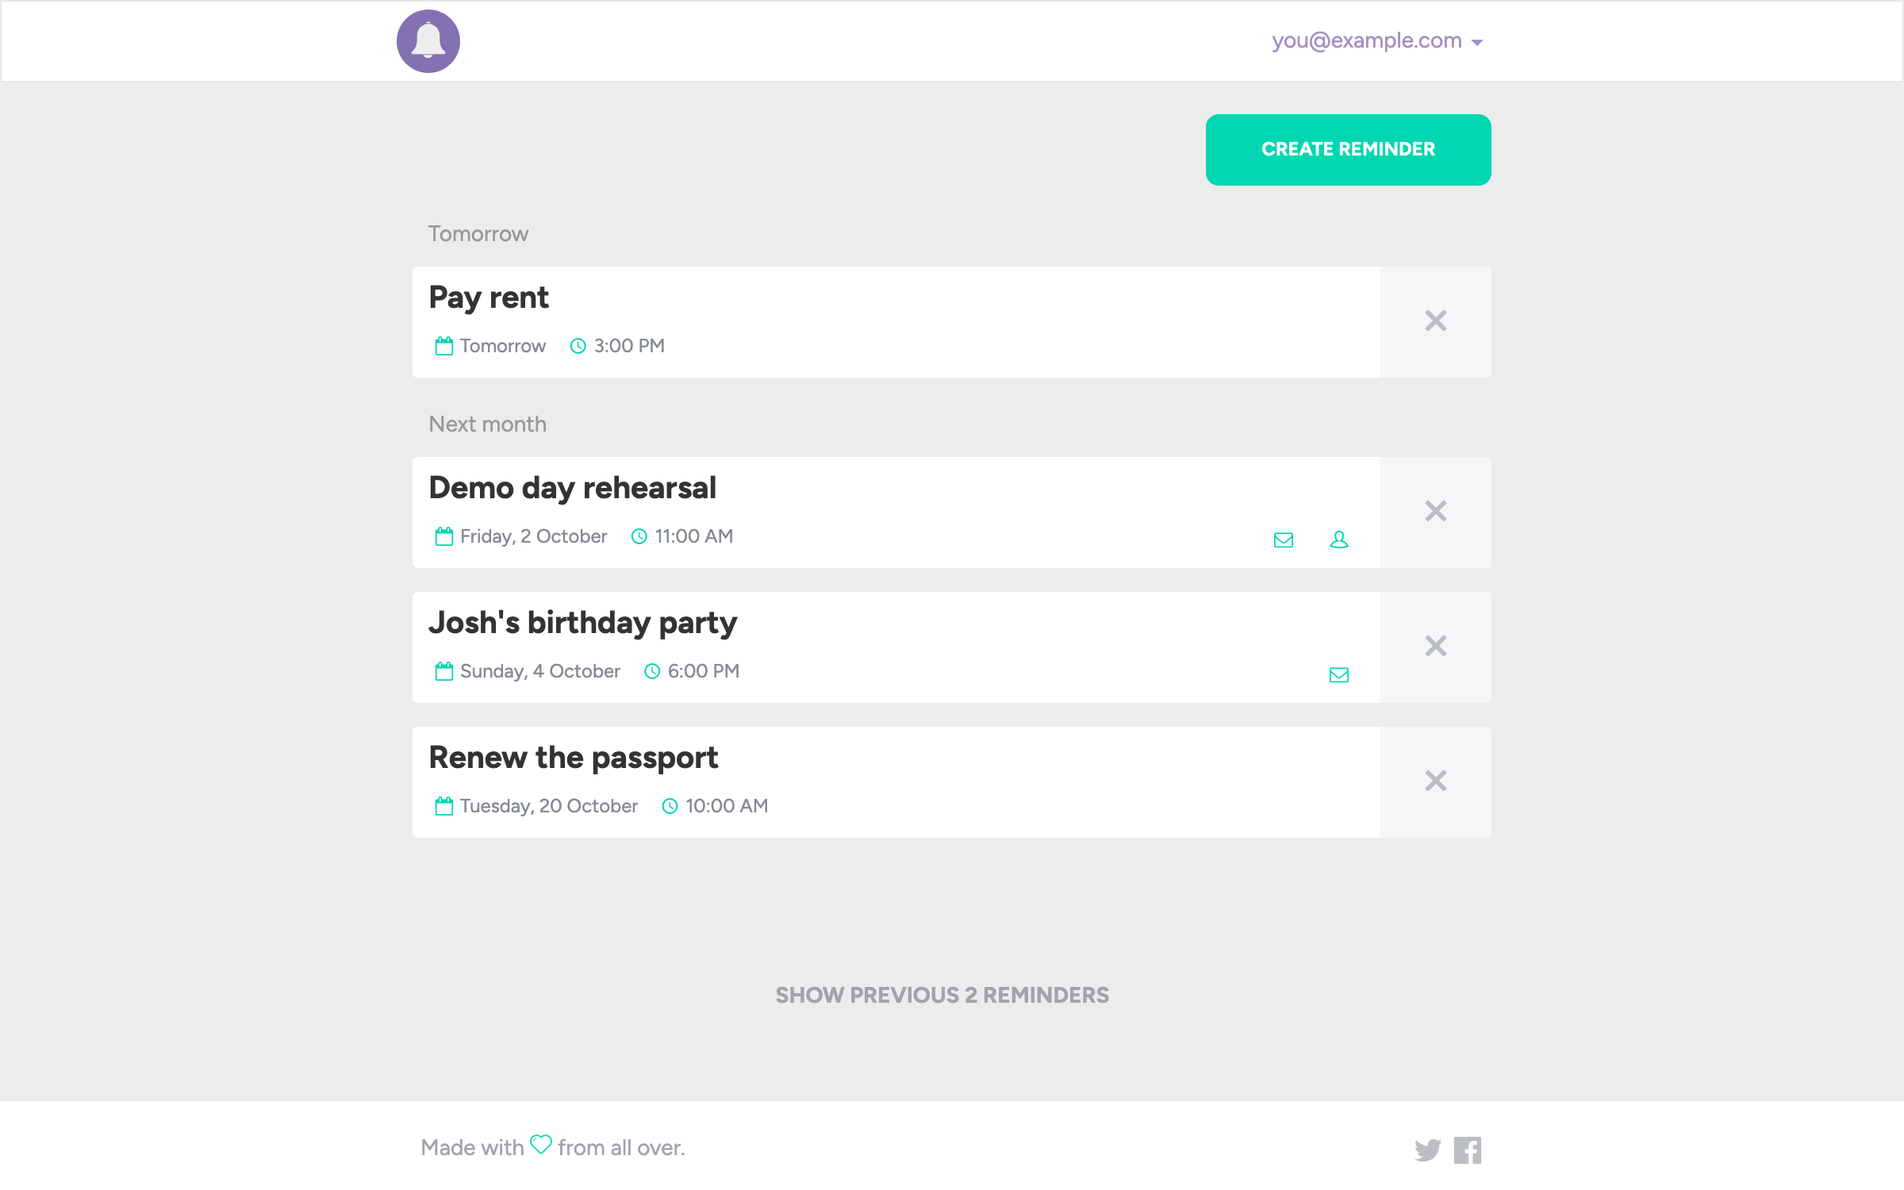
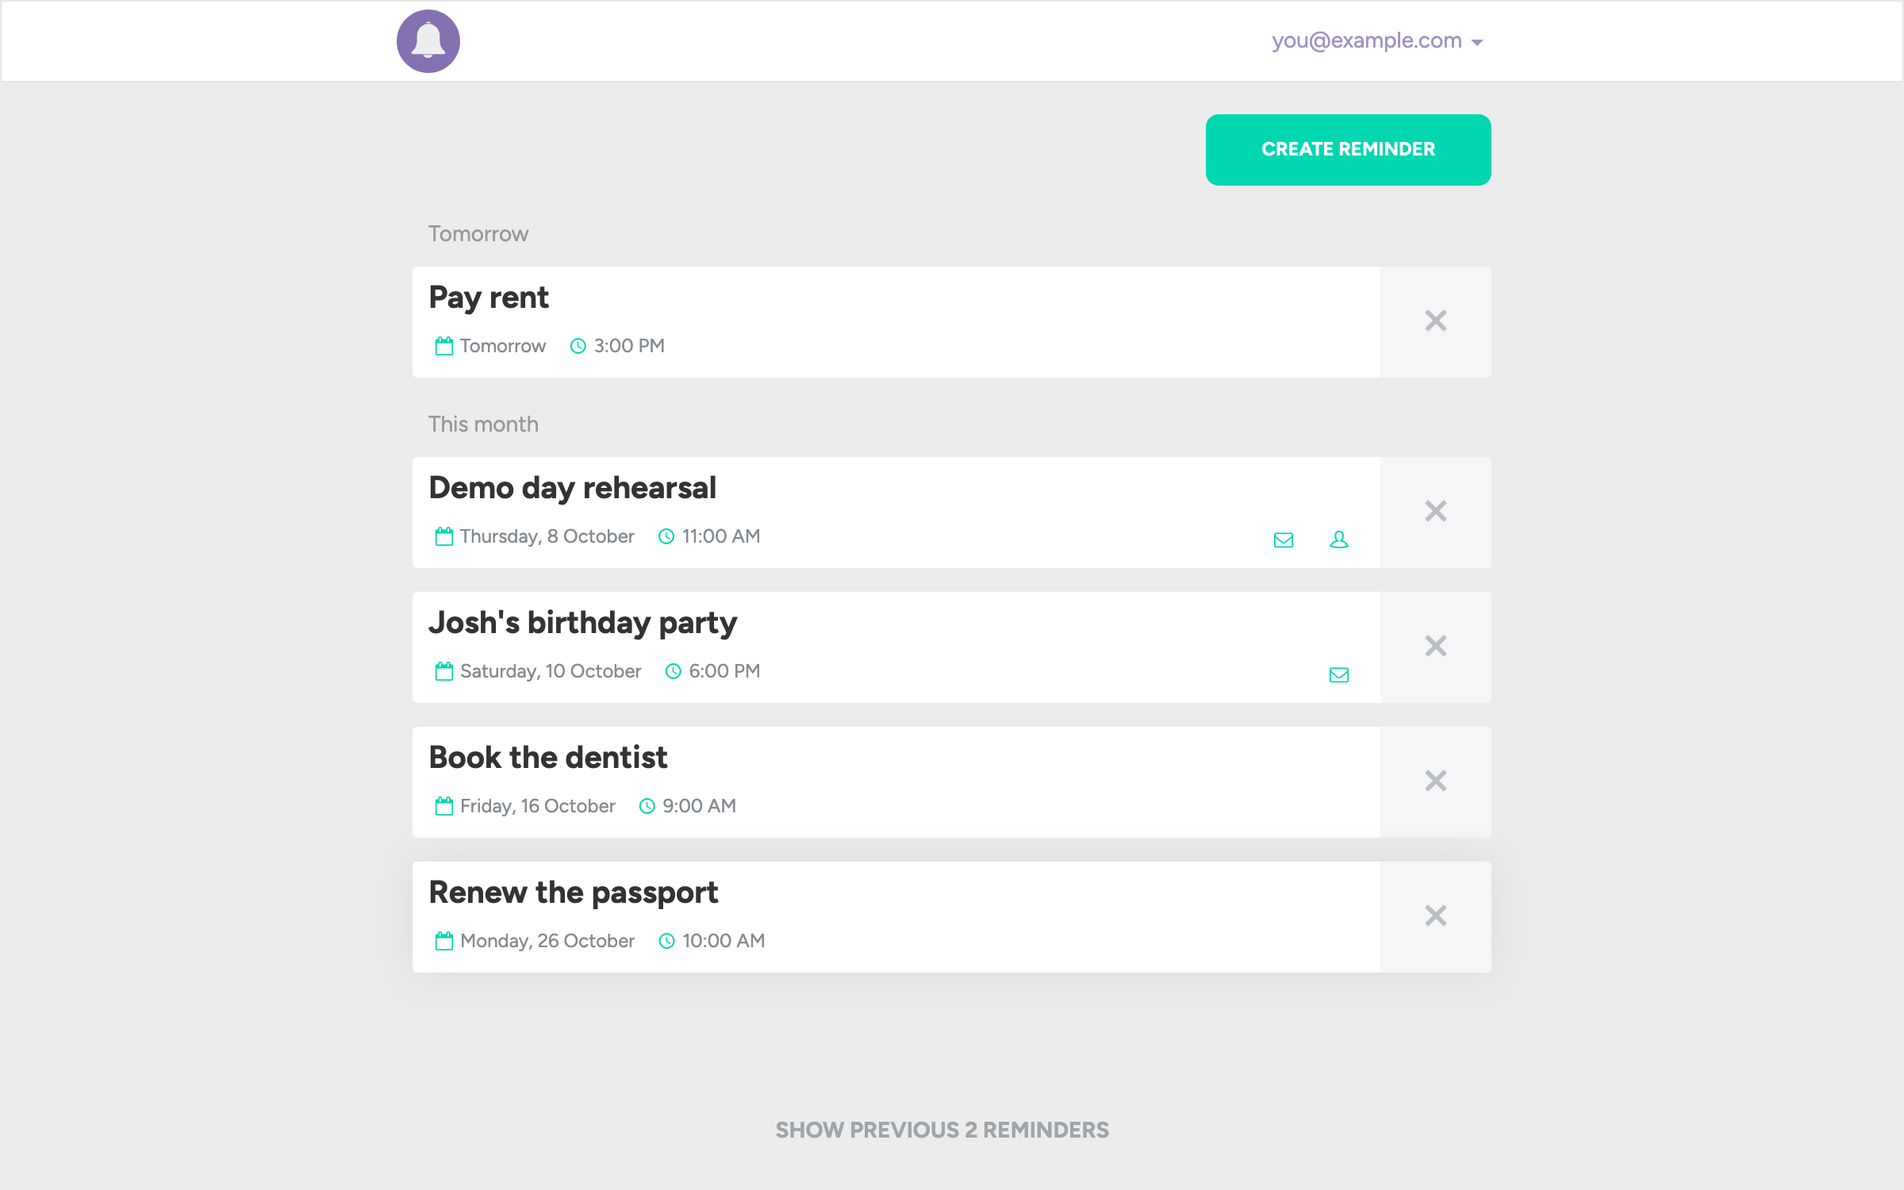
docs: lead with the provable 2014 launch and my part in Reme
Reframes the headline from "before typing to software was normal", which Google Calendar Quick Add and Fantastical disprove, to the verifiable Product Hunt feature on 27 February 2014, and adds a first-person "My part" section. Corrects the counts to 919 commits and 648 of mine, says the 2024 README edits exist, links the 2016 directive and the commit that imported it, and lists the new fixes. Images are regenerated from one fixed clock.

diff --git a/README.md b/README.md
@@ -4,15 +4,15 @@
 
 # Reme
 
-**Natural-language reminders, years before typing to software was normal.**
+**Email reminders you write as a sentence, since February 2014.**
 
-Type _"Pay rent @tomorrow at 3pm"_ and Reme e-mails you on time. There was no form to fill in: the sentence was the interface. A small team built it and ran it on reme.io from 2014. It was revived in 2026 so it runs again, entirely in your browser.
+Type _"Pay rent @tomorrow at 3pm"_ and Reme emails you on time. No date picker, no form: the sentence is the interface. I co-founded Reme, wrote 648 of the 919 commits of Reme 2.0 (2014–2016), and revived it on my own in 2026, so it runs again, entirely in your browser.
 
 [![CI](https://github.com/ioanlucut/reme/actions/workflows/ci.yml/badge.svg)](https://github.com/ioanlucut/reme/actions/workflows/ci.yml)
 [![Live demo](https://img.shields.io/badge/live%20demo-GitHub%20Pages-8471B1)](https://ioanlucut.github.io/reme/)
-![Natural-language input](https://img.shields.io/badge/natural--language%20input-since%202014-00d7b2)
+[![Product Hunt: #6 of the day, February 2014](https://img.shields.io/badge/Product%20Hunt-%236%20of%20the%20day%2C%20Feb%202014-da552f)](https://www.producthunt.com/products/reme-io)
 ![AngularJS 1.3](https://img.shields.io/badge/AngularJS-1.3-dd1b16)
-![Commits](https://img.shields.io/badge/commits%202014%E2%80%932016-921-555)
+![Commits](https://img.shields.io/badge/commits%202014%E2%80%932016-919-555)
 [![License: MIT](https://img.shields.io/badge/license-MIT-blue)](LICENSE)
 
 <a href="https://ioanlucut.github.io/reme/"><img src="docs/images/reme-demo.gif" alt="Reme demo: enter an email on the landing page, land in the reminders list, type 'Book the dentist @next friday at 9am', watch the date and time fill themselves in, and see the reminder appear in the list." width="100%"></a>
@@ -25,15 +25,15 @@ Type _"Pay rent @tomorrow at 3pm"_ and Reme e-mails you on time. There was no fo
 
 The whole product is one idea: **a reminder should take less time to write than to forget.**
 
-1. **You write the reminder the way you'd say it.** Everything before the `@` is what to remember, and everything after it is when. Since the 2026 revival the `@` is optional, so `Meeting tomorrow at 3pm` works too. The date and time pickers update as you type, and you can still adjust them by hand. [How it reads a sentence](#talking-to-software-in-2014) is below.
-2. **Reme e-mails you when it's due.** The reminder is scheduled in the timezone of the browser it was written in.
+1. **You write the reminder the way you'd say it.** Everything before the `@` is what to remember, and everything after it is when. Since the 2026 revival the `@` is optional, so `Meeting tomorrow at 3pm` works too. The date and time pickers update as you type, and you can still adjust them by hand. [How it reads a sentence](#a-sentence-as-the-interface) is below.
+2. **Reme emails you when it's due.** The reminder is scheduled in the timezone of the browser it was written in.
 3. **You can remind other people too.** Add more recipients and they get the email as well. They see the reminder in their own list and can unsubscribe from it.
 4. **Your reminders stay organised.** They're grouped as _Today_, _Tomorrow_, _This month_, _Next month_ and so on, with upcoming and past reminders kept apart.
 
 <table>
 <tr>
-<td width="50%"><img src="docs/images/create.png" alt="The reminder dialog: the text 'Josh's birthday party @next friday at 6pm' has set the date picker to a Friday and the time picker to 06:00 PM"></td>
-<td width="50%"><img src="docs/images/reminders.png" alt="The reminders list, grouped under Tomorrow and Next month, with recipient and shared-reminder icons"></td>
+<td width="50%"><img src="docs/images/create.png" alt="The reminder dialog: the text 'Book the dentist @next friday at 9am' has set the date picker to a Friday and the time picker to 09:00 AM"></td>
+<td width="50%"><img src="docs/images/reminders.png" alt="The reminders list with the new dentist reminder, grouped under Tomorrow and This month, with recipient and shared-reminder icons"></td>
 </tr>
 <tr>
 <td><sub>The date and time are parsed from the text as you type.</sub></td>
@@ -41,9 +41,15 @@ The whole product is one idea: **a reminder should take less time to write than 
 </tr>
 </table>
 
-## Talking to software, in 2014
+## My part
 
-Today we type a sentence into a chat box and expect software to understand it. In 2014, apps asked you to pick a date from a calendar and a time from a dropdown. Reme asked for a sentence instead. It was live on reme.io by March 2014, and [dotTech's review of 8 April 2014](https://dottech.org/155679/web-review-reme-io-app/) walked readers through the `@` syntax.
+- **I co-founded Reme and built the Reme 2.0 front end.** That's 648 of its 919 commits: the module architecture, JWT authentication, the reminders list and its grouping, the natural-language editor, and the build and deployment.
+- **Reme 2.0 went from first commit to live in nine weeks.** The first commit landed on 15 November 2014, there were 501 commits by the end of the year, and it went live on 17 January 2015.
+- **I revived it alone in 2026.** That meant a new build, a demo that needs no backend, fixes for bugs that had lain dormant for a decade, the first end-to-end tests, and CI.
+
+## A sentence as the interface
+
+In 2014, most web apps asked for a date from a calendar widget and a time from a dropdown. A few tools, such as Google Calendar's Quick Add, could already read a date from text. Reme built the whole product around that idea: one sentence, no form and, in its first version, no account. It was featured on [Product Hunt](https://www.producthunt.com/products/reme-io) on 27 February 2014, and [dotTech's review of 8 April 2014](https://dottech.org/155679/web-review-reme-io-app/) walked readers through the `@` syntax.
 
 Reme split the sentence into two parts. Everything before the `@` became the text of the reminder, and everything after it was parsed as a date. It updated the date and time pickers on every keystroke, entirely in the browser.
 
@@ -61,9 +67,7 @@ Here is what Reme reads from the examples its own reminder dialog suggested. The
 
 The `@` split is what lets _"next month"_ stay part of the wedding's text rather than change its date.
 
-In 2026 the `@` became optional. Without one, Reme takes the longest run of words at the end of the sentence that reads as a date from today onwards. `Meeting tomorrow at 3pm` gets tomorrow at 15:00, and `Call the bank in 2 hours` gets a time two hours from now. `Read chapter 5` stays a plain reminder, because a bare number isn't taken as a date.
-
-It was a grammar, not a language model. [Sugar](https://sugarjs.com/) recognised a fixed set of date expressions in a few milliseconds, with no server round trip. Anything outside that set, such as `@next monday at noon`, simply wasn't understood, and the pickers stayed as they were. The whole feature is one small directive, [`nlpDateDirective.js`](src/app/common/directives/nlpDateDirective.js):
+It was a grammar, not a language model. [Sugar](https://sugarjs.com/) recognised a fixed set of date expressions in a few milliseconds, with no server round trip. It had no word for `noon`, for example: typing `@next monday at noon` set the date from the part it understood and left the time alone. The core of the directive, as it was in 2016 ([`nlpDateDirective.js`](https://github.com/ioanlucut/reme/blob/original-2016/src/app/common/directives/nlpDateDirective.js)):
 
 ```js
 // If a separator was specified, use it
@@ -80,6 +84,12 @@ if (!date.isValid()) return;
 ```
 
 The directive then checks that the date isn't in the past, and flashes the date picker, the time picker or both, depending on what changed.
+
+The 2026 revival taught it three more things, each covered by tests:
+
+- **The `@` is optional.** Without one, Reme takes the longest run of words at the end of the sentence that reads as a date from today onwards, so `Meeting tomorrow at 3pm` works. `Read chapter 5` stays a plain reminder, because a bare number isn't taken as a date.
+- **A day without a time keeps the time already picked.** `Call John @friday` used to be due at midnight.
+- **An `@` inside an email address is not the separator.** `Email bob@acme.com about the invoice tomorrow at 10am` keeps its full text.
 
 ## Run it locally
 
@@ -106,38 +116,45 @@ Reme is an AngularJS 1.3 single-page app of about 4,800 lines of JavaScript in 9
 - **Modules.** Each feature is its own Angular module: `remeSite` (landing, about, privacy and error pages), `remeAccount` (sign-up, login, password reset, profile and preferences), `remeReminders` (the list and the create, edit and delete dialogs) and `remeCommon` (the shared directives, filters, interceptors and session). Routing uses `ui-router` states, and an auth filter keeps signed-out users away from `/reminders` and `/account/settings`.
 - **Sign-up by email.** The landing page only asks for an email address. The account is created from the link in the verification email, with the timezone detected by `jstz`.
 - **Stateless auth.** The API returns a JWT in the `authtoken` response header. The app keeps it in `localStorage` and an `$http` interceptor attaches it as a `Bearer` token to every request. A second interceptor converts between the app's camelCase and the API's snake_case JSON.
-- **Natural-language dates.** The `nlp-date` directive splits the text at `@`, parses the rest with [Sugar](https://sugarjs.com/)'s `Date.create`, ignores dates before today, and broadcasts whether the date or the time changed so the matching picker can flash.
+- **Natural-language dates.** The `nlp-date` directive described above, built on [Sugar](https://sugarjs.com/)'s `Date.create`.
 - **Grouping.** Reminders are split into upcoming and past, then labelled by relative period, with long lists paged by _Load more_.
 - **Design.** The SCSS is BEM-style on top of Bootstrap 3, with a custom icon font and Ladda loading buttons.
 
 ## The 2026 revival
 
-The last commit landed in May 2016. Since then the API at `api.reme.io` has gone offline and the build has stopped working. The repository sat untouched until 2026, when it was brought back without rewriting the app itself:
+The last code change landed in May 2016, and the only later commits were two README edits in 2024. By 2026 the API at `api.reme.io` was offline and the build no longer ran. The revival brought it back without rewriting the app:
 
 |              | 2016                                                           | 2026                                                                                                                                                                          |
 | ------------ | -------------------------------------------------------------- | ----------------------------------------------------------------------------------------------------------------------------------------------------------------------------- |
 | Build        | gulp 3, bower, Ruby Sass, PhantomJS, committed `build/` output | One dependency-free Node script ([`scripts/build.mjs`](scripts/build.mjs)) and Dart Sass                                                                                      |
 | Dependencies | bower packages, two of whose repositories no longer exist      | npm, pinned to the 2015 versions or the nearest published ones; one vendored file                                                                                             |
 | Backend      | Reme's API at `api.reme.io`                                    | An in-browser fake of the same API ([`src/demo/mock-api.js`](src/demo/mock-api.js)), on AngularJS's own `ngMockE2E`, and no sign-up: every way in signs you in as a demo user |
-| Hosting      | S3 and CloudFront, deployed from CircleCI                      | GitHub Pages, deployed by GitHub Actions                                                                                                                                      |
-| Tests        | 17 Jasmine specs on Karma and PhantomJS                        | The same 17 specs on Karma and headless Chrome, plus 5 new ones and Playwright end-to-end tests, on every push                                                                |
+| Hosting      | S3 and CloudFront, deployed from CircleCI                      | A static build on GitHub Pages                                                                                                                                                |
+| Tests        | 17 Jasmine specs on Karma and PhantomJS                        | The same 17 specs on Karma and headless Chrome, plus 8 new ones and Playwright end-to-end tests, run by GitHub Actions on every push                                          |
 | Analytics    | Mixpanel and Intercom                                          | Stubbed out; nothing leaves the browser                                                                                                                                       |
 
-It also fixed what had broken along the way:
+It also fixed what had broken, or had always been broken:
 
+- **A list that lost reminders.** The 2016 filter that shows the first five reminders removed items from shared, cached groups while looping over them. After a few new reminders it skipped the ones due soonest. It's now a pure filter sorted by due date, with a regression test.
+- **Groups out of order.** Each group was sorted by a reference date, and "This month" (now) came before "Tomorrow" (now plus a day). Groups are now ordered by their earliest reminder, with a test pinned to a fixed date.
 - **A date limit from 2014.** The reminder input, carried over from the first Reme, rejected every date after 1 January 2018 (`max-date="2018-01-01"`). From 2018 on, typing a date silently did nothing.
-- **Missing assets and leftovers.** These included a loading spinner that only existed in the old build output, two Romanian placeholders in the profile form, and a signup confirmation title whose lines overlapped.
+- **Layout.** A header button whose label overflowed it, settings tabs that covered the logo on phones, "How it works" illustrations cut in half on phones, and hidden tooltips that widened the page.
+- **Dead ends.** Links to the retired Twitter and Facebook accounts, and a contact address on a domain that has since changed hands, now point to this repository. A loading spinner that only existed in the old build output is back.
+- **Leftovers.** Two Romanian placeholders in the profile form, and a signup confirmation title whose lines overlapped.
 - **The fonts.** The Typekit kit for Proxima Nova is gone, so [Figtree](https://fonts.google.com/specimen/Figtree) stands in.
-- **The history.** It was cleaned for publishing: deploy credentials and personal data (e-mail addresses and photos) were removed from every commit. All 921 commits and their authors are kept.
+- **The history.** It was cleaned for publishing: deploy credentials and personal data (email addresses and photos) were removed from every commit. All 919 commits from 2014–2016 and their authors are kept.
 
 ## Project history
 
-<img src="docs/images/2015-landing.png" alt="The Reme landing page from the 2015 press kit: 'Create email reminders in seconds!' with an email field and a 'Get started for FREE!' button" width="100%">
+<img src="docs/images/2015-landing.png" alt="The Reme 2.0 landing page from the 2015 press kit: 'Create email reminders in seconds!' with an email field and a 'Get started for FREE!' button" width="100%">
 
-The first Reme was a single page with no sign-up: one text box, where you wrote the reminder as a sentence and added the email addresses to send it to. It was covered by [dotTech](https://dottech.org/155679/web-review-reme-io-app/) and [One Page Love](https://onepagelove.com/reme-io), and reached #6 of the day on [Product Hunt](https://www.producthunt.com/products/reme-io). This repository is **Reme 2.0**, the rewrite that added accounts, shared reminders and a reminders list, around the natural-language editor of the first version. Its landing page reassured first-generation users that _"the reminders created in old Reme will be imported in your account after you sign up."_
+The first Reme was a single page with no sign-up: one text box, where you wrote the reminder as a sentence and added the email addresses to send it to. It was covered by [dotTech](https://dottech.org/155679/web-review-reme-io-app/) and [One Page Love](https://onepagelove.com/reme-io). This repository is **Reme 2.0**, the rewrite that added accounts, shared reminders and a reminders list around the first version's natural-language editor, which it [imported in December 2014](https://github.com/ioanlucut/reme/commit/78ac2ce). The 2.0 landing page (above, from its 2015 press kit) reassured first-generation users that _"the reminders created in old Reme will be imported in your account after you sign up."_
 
-- **Early 2014.** The first Reme is live on reme.io (the Wayback Machine's first capture is from 2 March 2014). By April, reviewers are explaining how to write a reminder as a sentence with an `@`.
-- **November–December 2014.** The rewrite starts, with 501 commits in its first seven weeks: accounts, JWT authentication and the new reminders list, with the natural-language editor carried over from the first Reme.
+- **February–April 2014.** The first Reme launches:
+    - featured on Product Hunt on 27 February, finishing #6 of the day;
+    - first captured by the Wayback Machine on [2 March](https://web.archive.org/web/20140302100921/http://reme.io/);
+    - reviewed by dotTech on 8 April.
+- **November–December 2014.** The rewrite starts, with 501 commits by the end of the year: accounts, JWT authentication and the new reminders list.
 - **January–February 2015.** Version 2.0 goes live (`v2.0.0` on 17 January), followed by fixes up to `v2.0.4` on 2 February, including a home-grown feedback form that replaced a paid service.
 - **Late 2015 to February 2016.** Deployment moves to S3 and CloudFront with CircleCI (`v2.1.5`).
 - **April–May 2016.** The last redesign: a video landing page and a new reminders list.
@@ -161,11 +178,11 @@ vendor/            angular-flash 0.1.14, which is not published to npm
 
 ## The team
 
-|                                                |                                                                                                                    |
-| ---------------------------------------------- | ------------------------------------------------------------------------------------------------------------------ |
-| [Ioan Lucuț](https://github.com/ioanlucut)     | Front-end engineering: architecture, auth, reminders, natural-language dates, build and deployment. 650 commits.   |
-| [Sorin Pantiș](https://github.com/sorinpantis) | Design and front-end: the visual design, layouts and responsive styles. 270 commits.                               |
-| [Tamás Pap](https://github.com/tamaspap)       | The About page, and [`url-to`](https://github.com/tamaspap/url-to), the small library Reme uses to build API URLs. |
+|                                                |                                                                                                                                                                   |
+| ---------------------------------------------- | ----------------------------------------------------------------------------------------------------------------------------------------------------------------- |
+| [Ioan Lucuț](https://github.com/ioanlucut)     | Co-founder. Front-end engineering: architecture, auth, reminders, natural-language dates, build and deployment. 648 commits, and the 2026 revival.                |
+| [Sorin Pantiș](https://github.com/sorinpantis) | Design and front end: the visual design, layouts and responsive styles. 270 commits.                                                                              |
+| [Tamás Pap](https://github.com/tamaspap)       | On the Product Hunt launch team of the first Reme. The About page, and [`url-to`](https://github.com/tamaspap/url-to), the small library Reme uses to build URLs. |
 
 ## License
 
